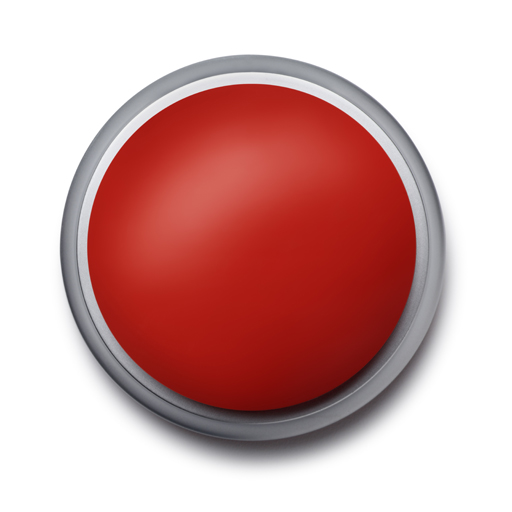
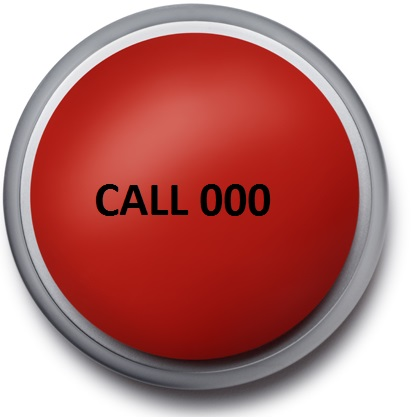
Add text to button.

diff --git a/src/view/main.html b/src/view/main.html
@@ -1,6 +1,6 @@
 
 <div ng-init="init()">
-  <div class="bs-callout bs-callout-warning">
+  <div class="bs-callout bs-callout-warning" ><h3>
 
     If you or the patient have any of these symptoms:
     <br />
@@ -13,24 +13,10 @@
 </ul>
 <br />
 Then call triple zero (000) and ask for an ambulance
-
+</h3>
   </div>
   <a href="tel:0418801084"><div class='bigredbutton'>
-    
+
   </div></a>
-    <!-- <button class="btn" ng-click="addItem();">Add</button>
-    <div class="container-fluid">
-        <div class="row">
-            <div class="col-sm-1"></div>
-            <div class="col-sm-4 h3">Description</div>
-            <div class="col-sm-4 h3">Code</div>
-        </div>
-    </div>
-    <div class="container-fluid item-container">
-        <div class="row" ng-repeat="item in Products">
-            <div class="col-sm-1"><button class="btn-sm" ng-click="selectItem(item.Id);">Edit</button></div>
-            <div class="col-sm-4">{{item.Description}}</div>
-            <div class="col-sm-4">{{item.Code}}</div>
-        </div>
-    </div> -->
+
 </div>
